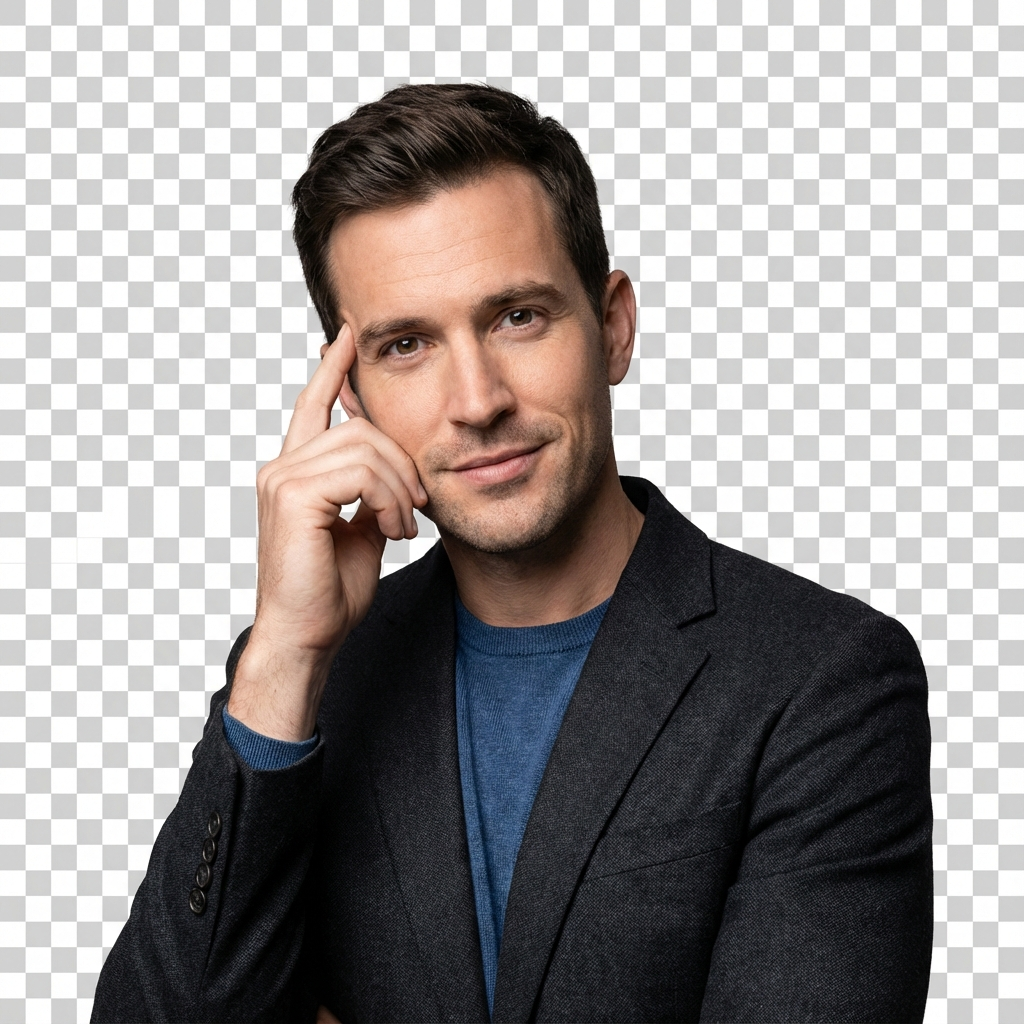
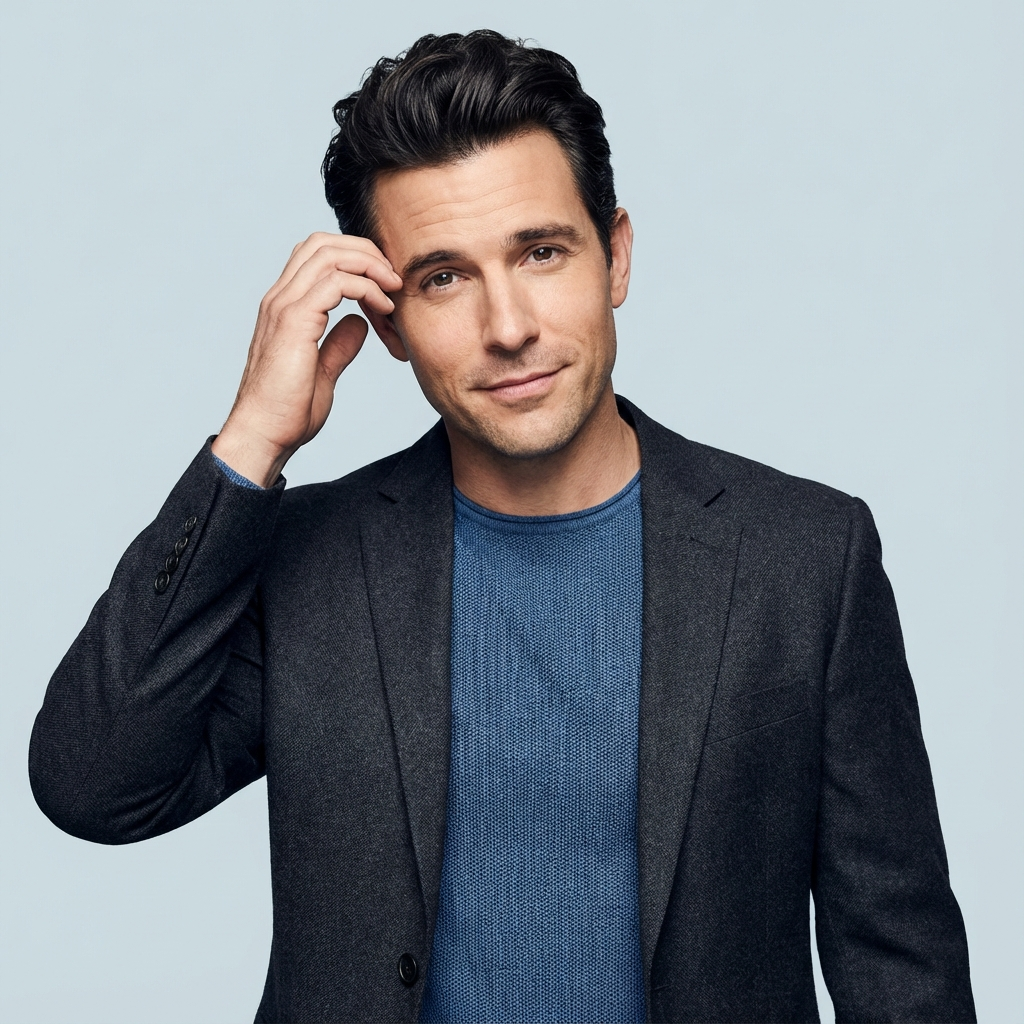
Fix: Generate image with pastel background (not transparent) and center card

diff --git a/src/components/ShopByConcern.jsx b/src/components/ShopByConcern.jsx
@@ -25,7 +25,7 @@ export default function ShopByConcern() {
         </div>
 
         {/* Grid Layout */}
-        <div className="grid grid-cols-1 md:grid-cols-2 gap-5 max-w-6xl mx-auto">
+        <div className="grid grid-cols-1 md:grid-cols-2 gap-5 max-w-6xl mx-auto justify-items-center">
           {concerns.map((item) => (
             <Link
               key={item.id}
